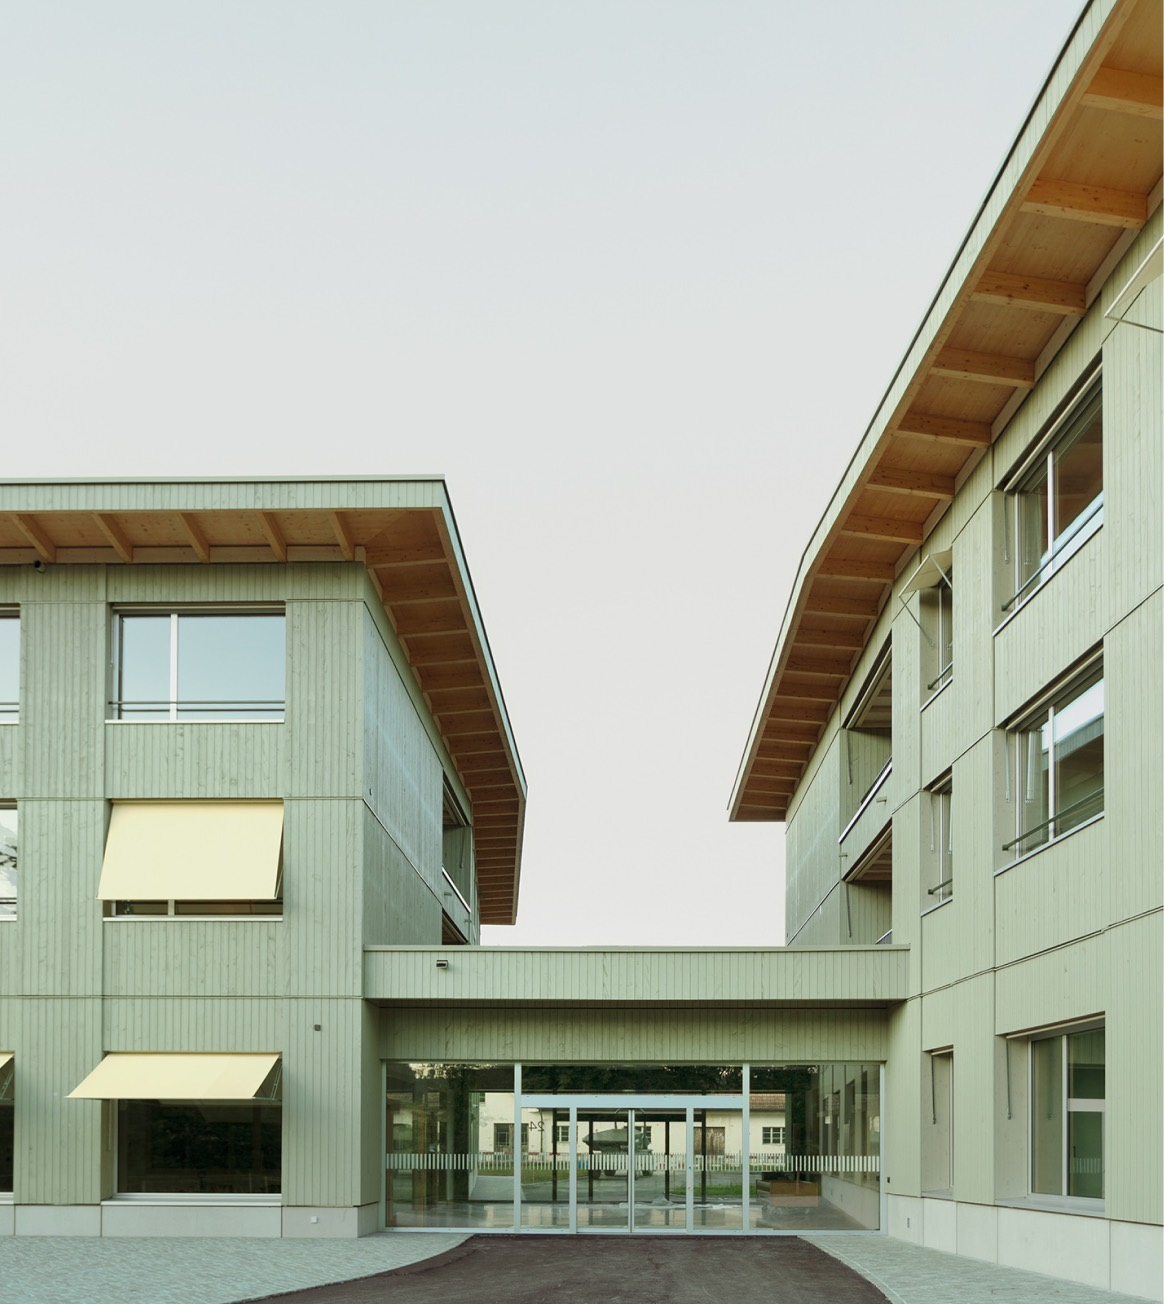
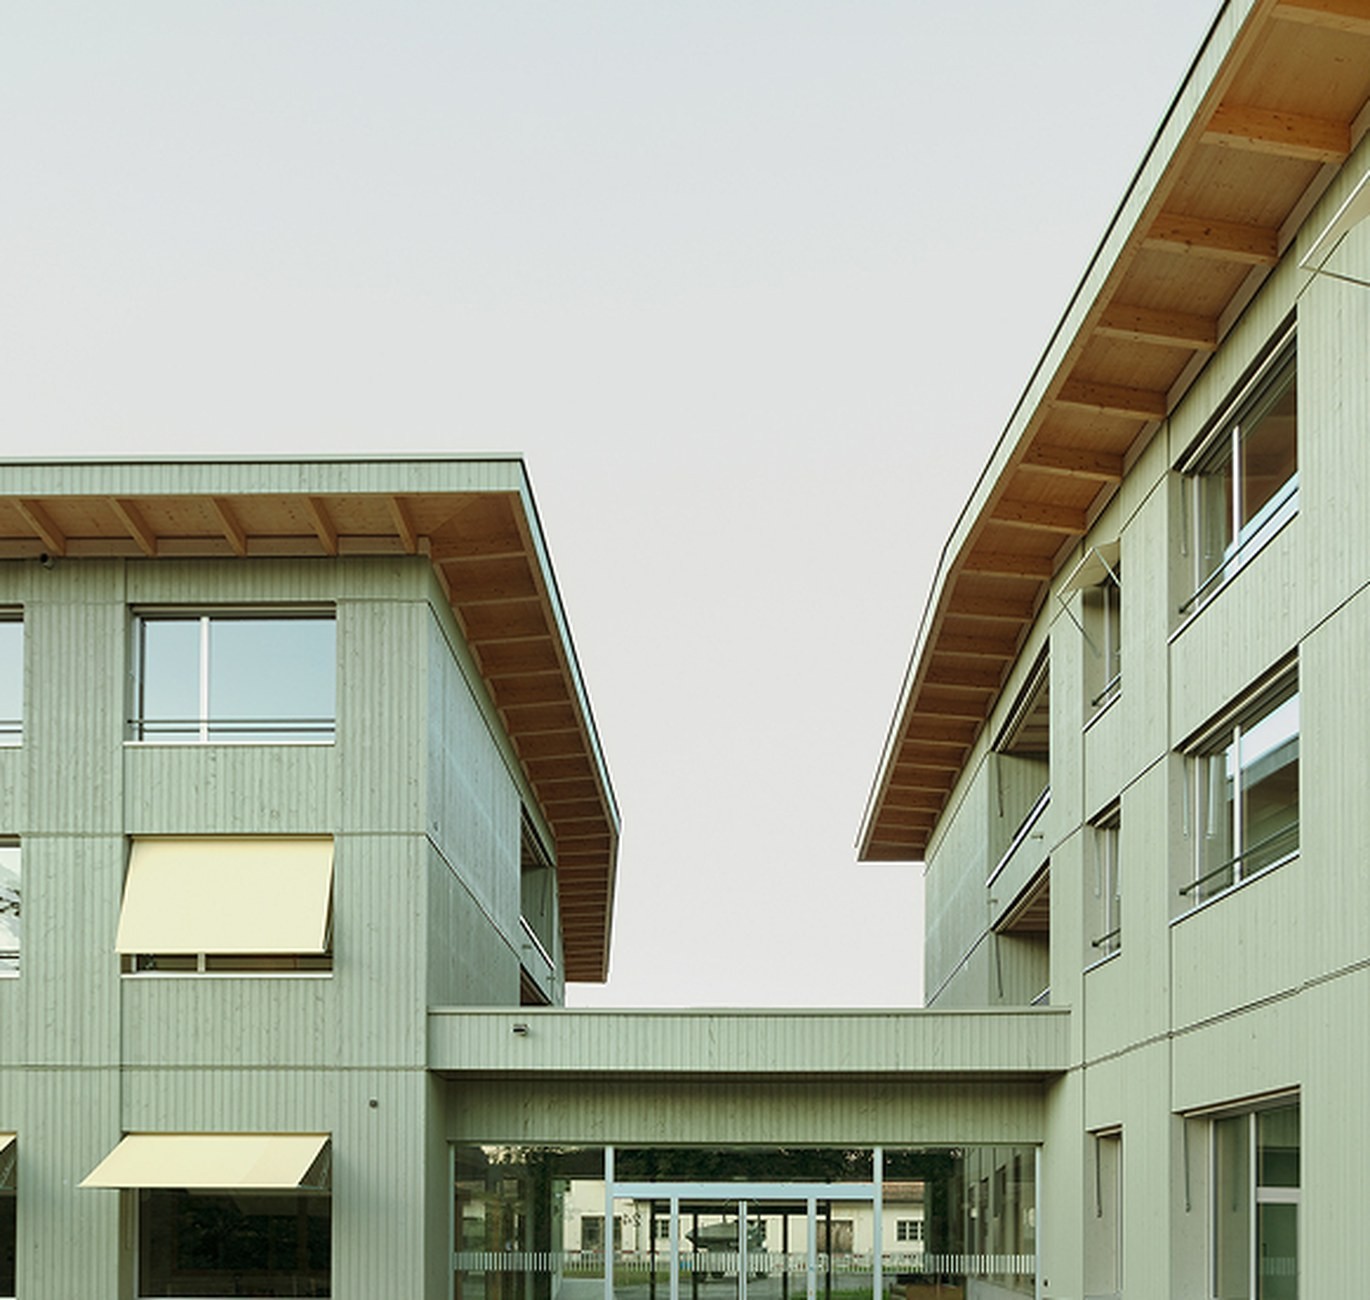
feat: polish Leistungen CTA band, credits, and intro captions
Add slanted Leistungen CTAs, multi-line photograph/architecture credit parsing, ServiceIntro captions, and related seed/style updates for service pages.

diff --git a/src/styles/global.css b/src/styles/global.css
@@ -85,6 +85,71 @@
     font-variation-settings: "wdth" 100;
   }
 
+  /*
+   * Leistungen CTA band: angled TOP edge (Figma).
+   * Left high → right low; bottom edge stays flat.
+   */
+  .leistungen-cta-slant {
+    --leistungen-cta-slant: 6.25vw;
+    clip-path: polygon(
+      0 0,
+      100% var(--leistungen-cta-slant),
+      100% 100%,
+      0 100%
+    );
+    padding-top: calc(var(--spacing-section) + var(--leistungen-cta-slant));
+    padding-bottom: var(--spacing-section);
+  }
+
+  .leistungen-cta-eyebrow {
+    @apply text-ink font-display text-[32px] leading-[40px];
+    font-weight: 700;
+  }
+
+  .leistungen-cta-heading {
+    @apply text-ink font-display text-[48px] leading-[56px];
+    font-weight: 700;
+  }
+
+  .leistungen-cta-body {
+    @apply text-ink font-sans text-[20px] leading-normal;
+    font-weight: 500;
+    font-stretch: normal;
+    font-variation-settings: "wdth" 100;
+  }
+
+  .leistungen-cta-button {
+    @apply bg-brand-500 enter:opacity-90 inline-flex w-[328px] items-center justify-center gap-2.5 px-6 py-4 text-center text-white transition-opacity;
+    font-family: var(--font-display);
+    font-size: 28px;
+    font-weight: 700;
+    line-height: 40px;
+    font-stretch: 75%;
+    font-variation-settings: "wdth" 75;
+  }
+
+  /* Short process intro line on Brandschutz (ChecklistSplit). */
+  .leistungen-process-intro {
+    @apply text-ink font-display text-[32px] leading-[40px];
+    font-weight: 700;
+  }
+
+  /* Checklist lead on Energieberatung only. */
+  .leistungen-process-lead {
+    @apply text-ink font-sans text-[20px] leading-normal;
+    font-weight: 700;
+    font-stretch: normal;
+    font-variation-settings: "wdth" 100;
+  }
+
+  /* Plain checklist titles (Bauherrenberatung process). */
+  .leistungen-checklist-plain {
+    @apply text-ink font-sans text-[20px] leading-normal whitespace-pre-line;
+    font-weight: 500;
+    font-stretch: normal;
+    font-variation-settings: "wdth" 100;
+  }
+
   .nav-dropdown-trigger {
     font: inherit;
     letter-spacing: inherit;

diff --git a/src/lib/photo-credit.ts b/src/lib/photo-credit.ts
@@ -6,3 +6,28 @@ export function fotografCreditParts(
   if (!match?.[1]) return null
   return { label: match[1], rest: match[2] ?? "" }
 }
+
+export type CreditLine = { label: string; rest: string }
+
+function parseCreditSegment(segment: string): CreditLine {
+  const line = segment.trim()
+  const match = /^([A-Za-zÄÖÜäöüß]+)(:?\s*)(.*)$/u.exec(line)
+  if (!match?.[1]) return { label: "", rest: line }
+  return {
+    label: `${match[1]}${match[2] ?? ""}`,
+    rest: match[3] ?? "",
+  }
+}
+
+/**
+ * Parse credits like:
+ * - "Fotograf: …\nArchitektur: …"
+ * - "Fotograf: … | Architektur: …"
+ */
+export function creditLines(credit: string): CreditLine[] {
+  return credit
+    .split(/\n+|\s*\|\s*/)
+    .map((part) => part.trim())
+    .filter(Boolean)
+    .map(parseCreditSegment)
+}

diff --git a/src/components/sections/SectionServiceIntro.schema.ts b/src/components/sections/SectionServiceIntro.schema.ts
@@ -10,6 +10,8 @@ export const sectionServiceIntroSchema = z.object({
   body: i18nStringSchema.optional(),
   image: z.string().optional(),
   imageAlt: i18nStringSchema.optional(),
+  caption: i18nStringSchema.optional(),
+  imageCaption: i18nStringSchema.optional(),
   ctaLabel: i18nStringSchema.optional(),
   ctaHref: z.string().optional(),
   reservationMode: z.enum(RESERVATION_MODES).optional(),
